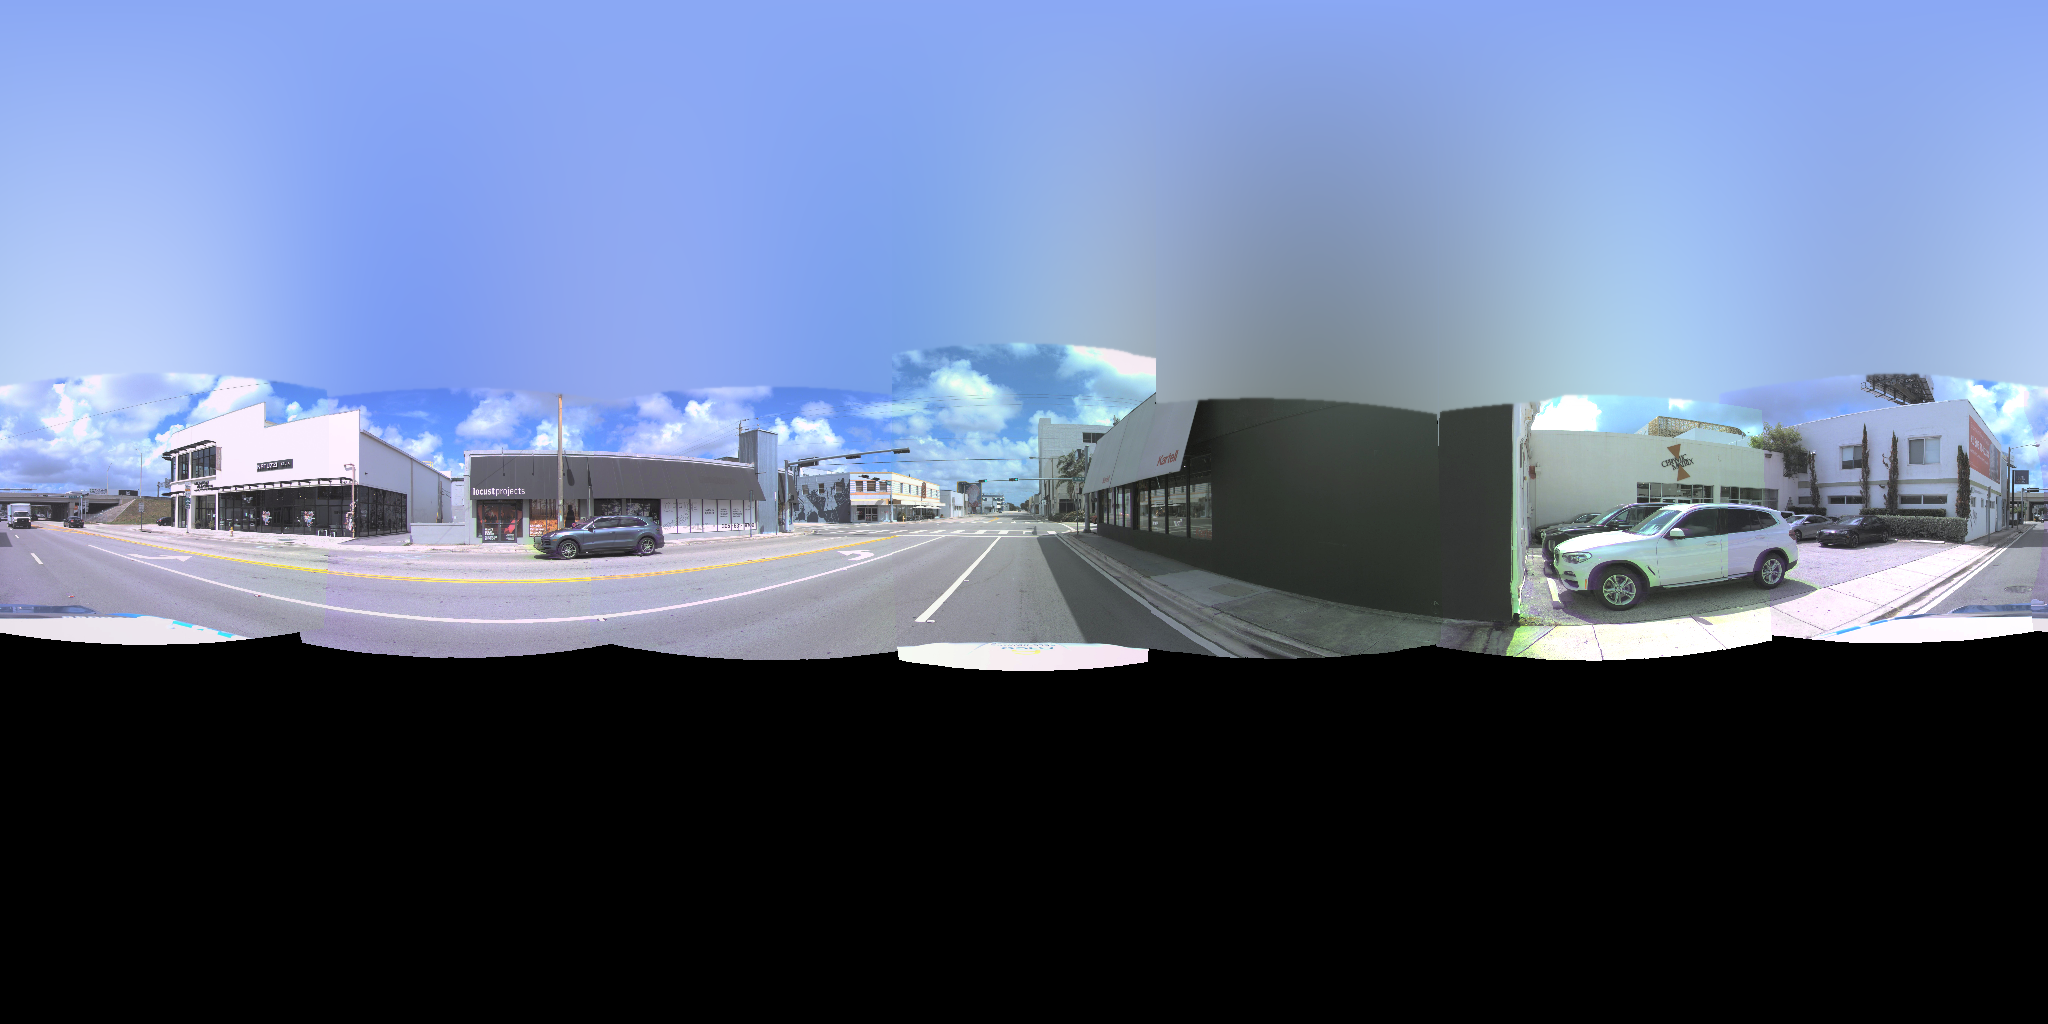
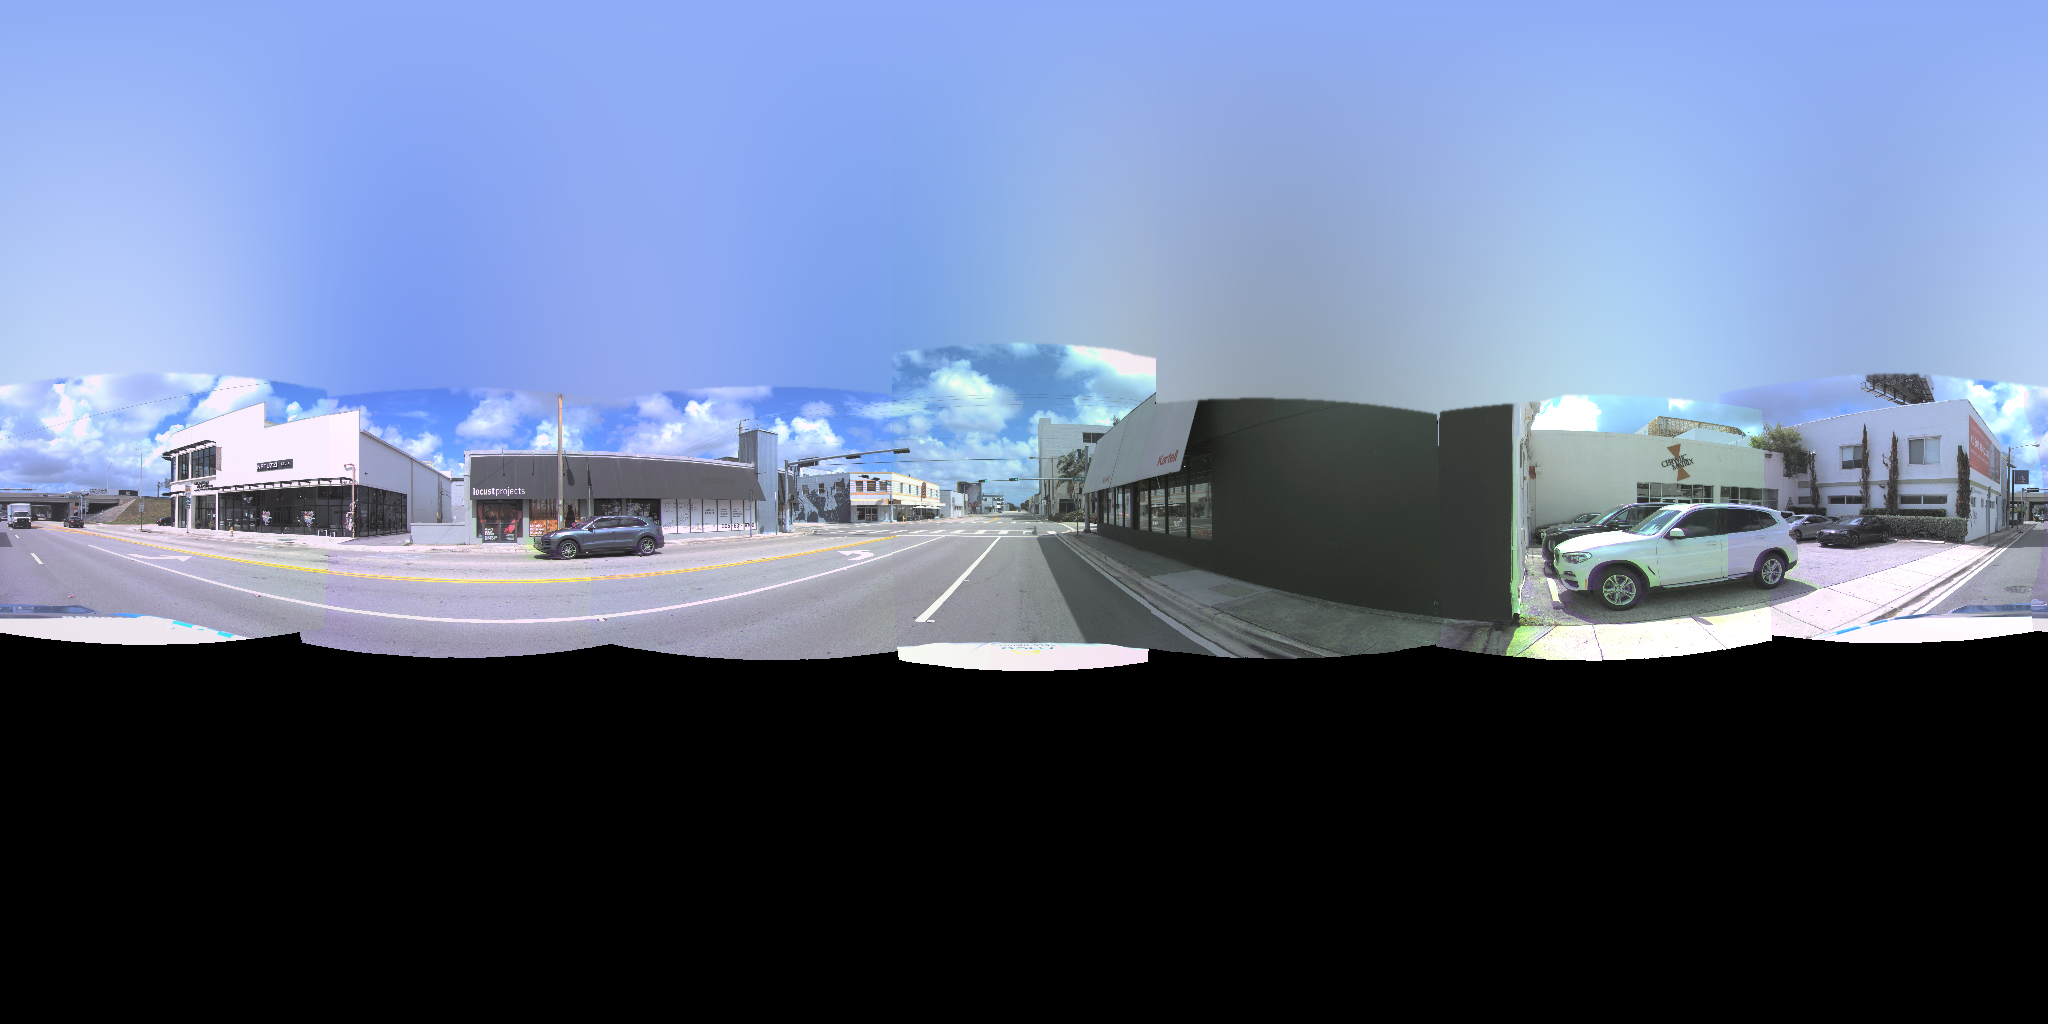
sky-fill v3.2: two-mode sky vote (cloud=very bright OR blue-sky=blueish+bright) - kills gray awning leak into the dome

Changed region(s): [[0.5938, 0.2188, 0.75, 0.4062]]

diff --git a/scripts/phase3/sky_fill_gradient.py b/scripts/phase3/sky_fill_gradient.py
@@ -42,7 +42,9 @@ def fill_sky(img: np.ndarray) -> np.ndarray:
             b, g, r = s[2], s[1], s[0]  # note: caller passes RGB; treat generically
             bright = s.mean()
             blueish = s[2] >= s[0] - 8   # RGB: B channel >= R - 8
-            valid[u] = bright > 110 and blueish
+            # sky has two photometric modes: CLOUD (very bright, any hue) or BLUE SKY
+            # (blueish and moderately bright); building/awning grays are neither.
+            valid[u] = (bright > 180) or (bright > 110 and s[2] >= s[0] + 15)
     if not valid.any():
         valid[:] = True
     # non-sky columns borrow the nearest sky column (circular EDT in u)
